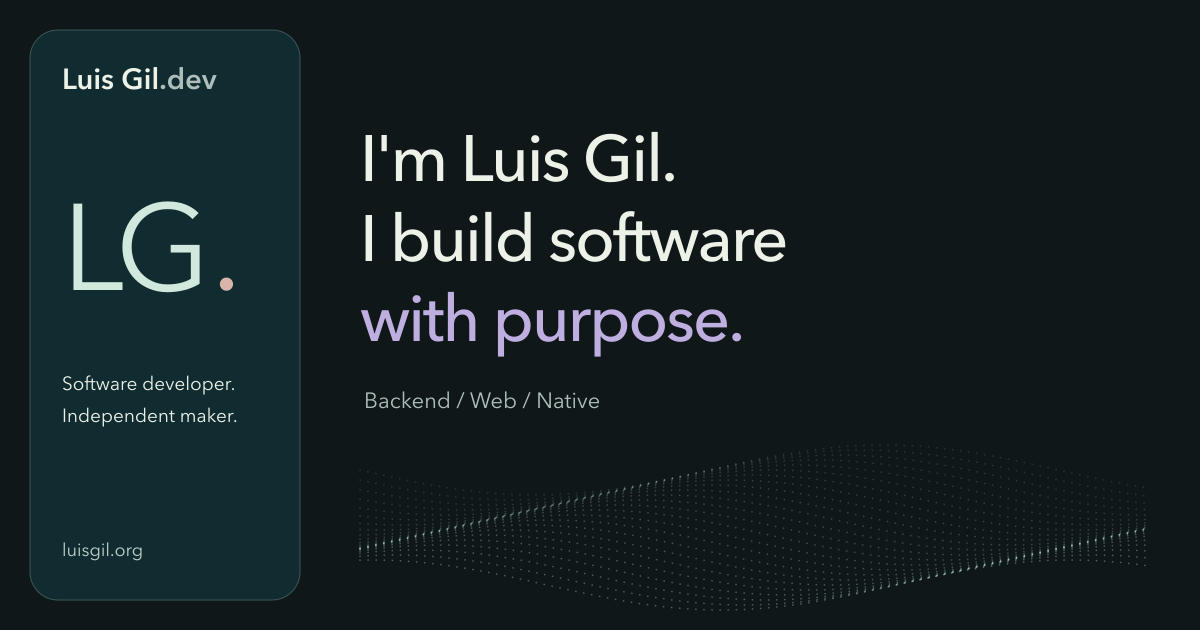
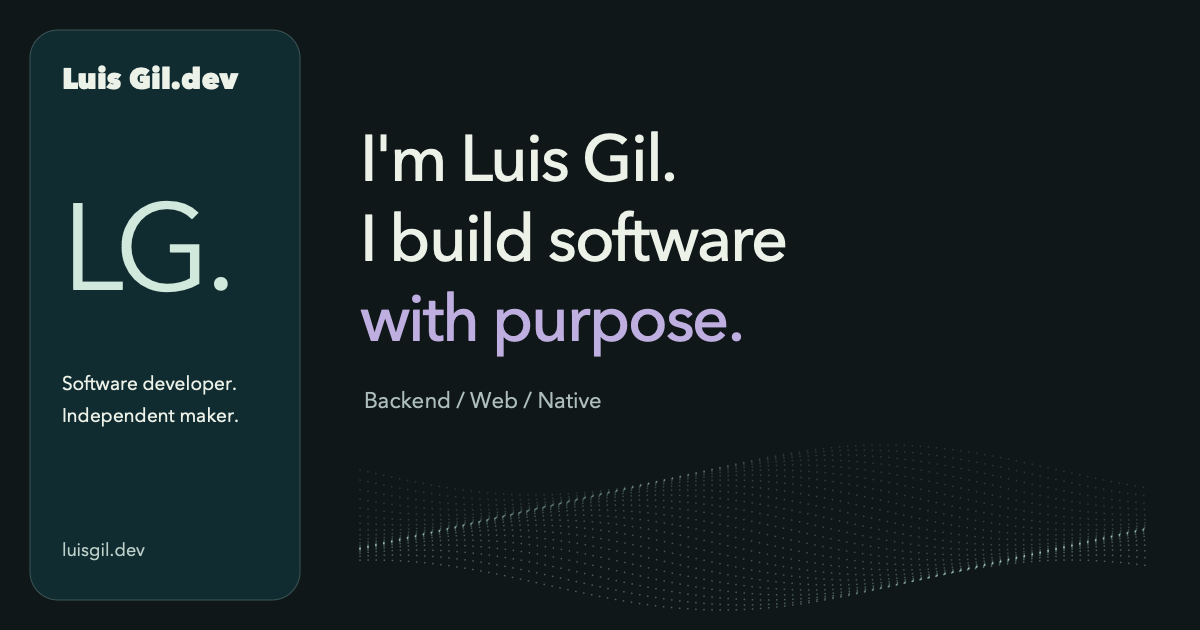
Make luisgil.dev primary and redirect previous domain

diff --git a/src/scripts/contact-email.ts b/src/scripts/contact-email.ts
@@ -2,7 +2,7 @@ export type ContactDetails = { name:string; subject:string; message:string };
 
 export function buildContactEmail(details:ContactDetails, language:'en'|'es') {
   // Keep user text in the body; strip line breaks from the subject header.
-  const subject = details.subject.replace(/[\r\n]+/g,' ').trim() || (language==='es' ? 'Contacto desde luisgil.org' : 'Contact from luisgil.org');
+  const subject = details.subject.replace(/[\r\n]+/g,' ').trim() || (language==='es' ? 'Contacto desde luisgil.dev' : 'Contact from luisgil.dev');
   const nameLabel = language==='es' ? 'Nombre' : 'Name';
   const body = `${nameLabel}: ${details.name.trim()}\n\n${details.message.trim()}`;
   return `mailto:luis.gil.dev15@gmail.com?subject=${encodeURIComponent(subject)}&body=${encodeURIComponent(body)}`;

diff --git a/PRODUCT.md b/PRODUCT.md
@@ -112,3 +112,7 @@ Terminal intro published and verified at https://luisgil.org/ and https://luisgi
 ### Skip intro preserves entrance — November23,2026
 
 User found that skipping the intro removed all site animations and requested a smoother handoff before republishing. Manual skips now dispatch animated readiness; pointer/Enter/Space share the normal700ms opacity dissolve with a120ms leading beat before site entrance. Escape/Tab remove the overlay immediately while still allowing the hero entrance. Reduced motion, direct fragments, failure fallback and pagehide remain immediate/static. The automatic completed-text hold remains700ms. This supersedes earlier keyboard-skip descriptions that disabled the hero entrance.
+
+## Primary domain — November 23, 2026
+
+The portfolio primary domain is https://luisgil.dev. The existing luisgil.org domain permanently redirects (301) to the same path and query on luisgil.dev. Both apex custom domains remain attached to the portfolio Cloudflare Worker and are declared in wrangler.jsonc. The Worker runs before static assets to redirect the old host, and delegates other hosts to ASSETS. Astro canonical, alternate and Open Graph URLs, contact draft subjects, footer domain and social previews use luisgil.dev. Domain migration was explicitly requested by the owner; no www aliases are configured by this change.
